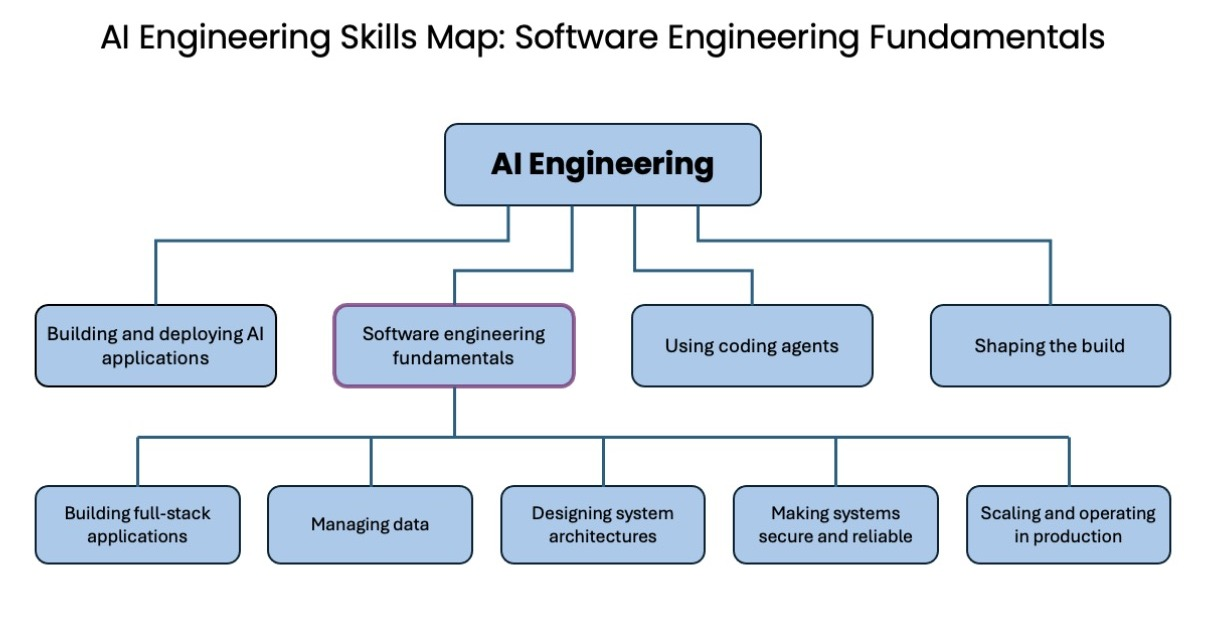
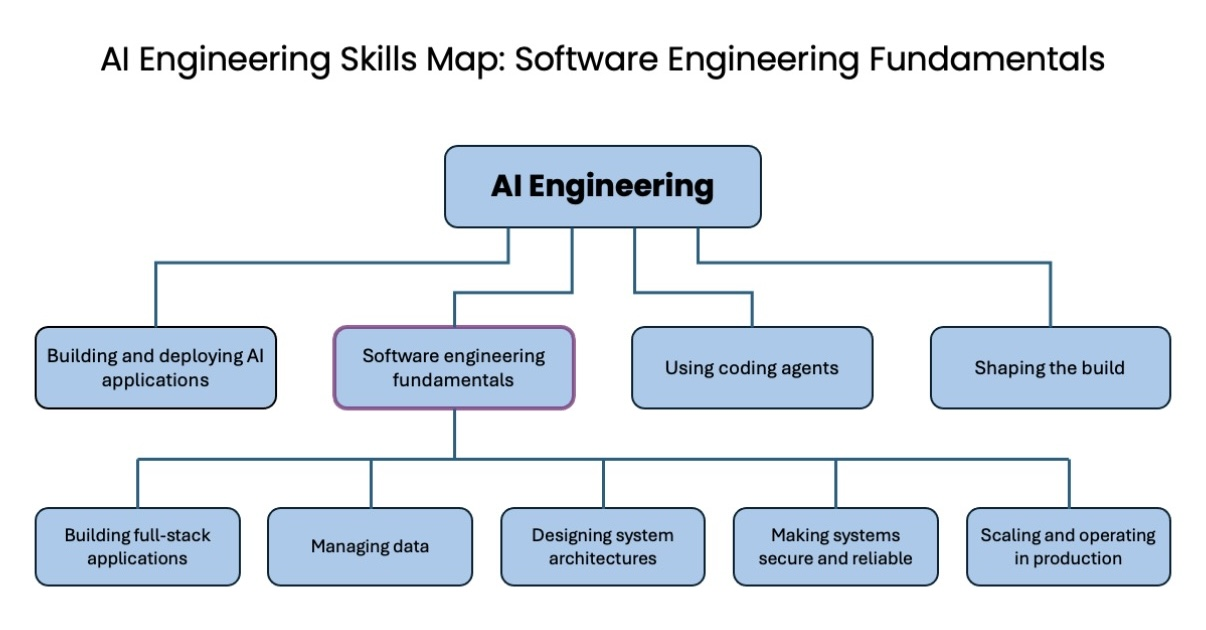
docs(guides): lead the skills-map guide with the diagram
Move the skills map above the fold (directly under the H1, with a
caption) instead of burying it under "The map at a glance", and replace
the asset with the clean original in place of the crop taken from the
LinkedIn screenshot.

Claude-Session: https://claude.ai/code/session_01EwXTUssVH21HvnK36wkHmn

Changed region(s): [[0.0307, 0.1818, 0.9818, 0.9394], [0.0614, 0.0303, 0.9204, 0.1212]]

diff --git a/04-guides/ai-engineering-skills-map.md b/04-guides/ai-engineering-skills-map.md
@@ -6,6 +6,10 @@ last_updated: "2026-08-30"
 
 # The AI Engineering Skills Map — Software Engineering Fundamentals in the Agentic Era
 
+![AI Engineering Skills Map: the AI Engineering root splits into Building and deploying AI applications, Software engineering fundamentals (highlighted), Using coding agents, and Shaping the build; software engineering fundamentals splits further into Building full-stack applications, Managing data, Designing system architectures, Making systems secure and reliable, and Scaling and operating in production](../assets/other/ng-ai-engineering-skills-map-swe-fundamentals.jpeg)
+
+*Andrew Ng's AI Engineering Skills Map, with the software engineering fundamentals branch expanded.*
+
 > "Even when you use a coding agent to write all your code, understanding software
 > fundamentals is important for steering your agent to make the tradeoffs you want
 > — or to even know what tradeoffs exist to be made."
@@ -34,8 +38,6 @@ language of steering.
 ---
 
 ## The map at a glance
-
-![AI Engineering Skills Map: the AI Engineering root splits into Building and deploying AI applications, Software engineering fundamentals (highlighted), Using coding agents, and Shaping the build; software engineering fundamentals splits further into Building full-stack applications, Managing data, Designing system architectures, Making systems secure and reliable, and Scaling and operating in production](../assets/other/ng-ai-engineering-skills-map-swe-fundamentals.jpeg)
 
 Ng's map names **four top-level skills** of AI engineering. It was built from an
 analysis of **over 10,000 job postings**, dozens of structured interviews with AI
